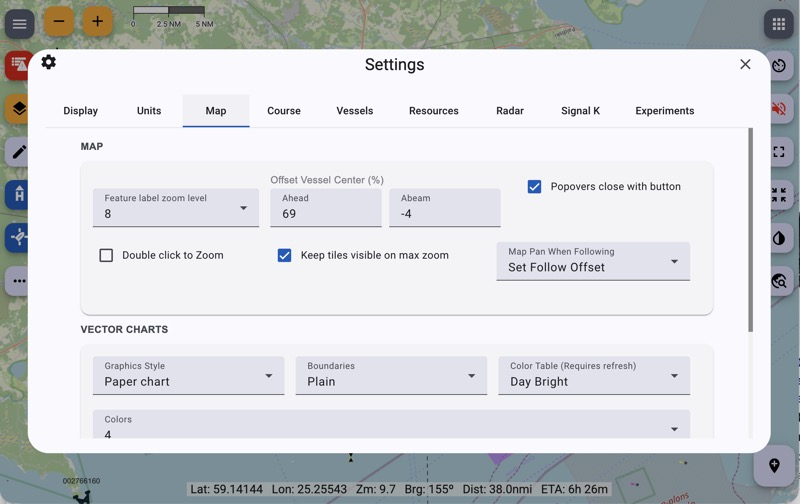
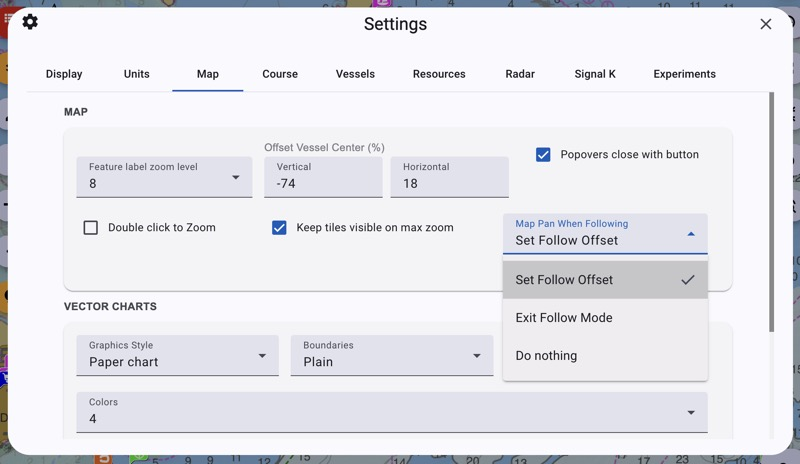
docs(map): update follow-vessel offset doc and help for screen-fixed frame (#638) (#640)
PR #638 changed the follow-vessel offset from vessel/course-frame to
screen-frame, renamed the settings fields Ahead/Abeam to
Vertical/Horizontal, and replaced the corner-scaling clamp with
releasing follow mode when the vessel is panned off screen. The
feature doc and the online help both described the old vessel-frame
model and field names, so both were now wrong.

- features/follow-vessel.md: rewrite the Offset Vessel Center section
  for the screen-frame model and new field names, add the off-screen
  pan release behaviour, drop the removed corner-scaling paragraph,
  refresh the Fig 2 screenshot.
- src/assets/help/index.html (#settings): correct the same facts in
  place.
- features/changelog.json: enhanced row for follow-vessel/#638.

diff --git a/src/assets/help/index.html b/src/assets/help/index.html
@@ -2409,23 +2409,26 @@
               while in "Follow Vessel" mode, so you can give yourself more
               visible chart in the direction you care about. Each value is a
               percentage of the distance from the center of the screen to its
-              edge, and both are measured relative to your course, so the view
-              keeps its bearings as the vessel turns.
+              edge, and both are measured relative to the screen, so the offset
+              holds its spot whether the vessel is underway, drifting, or at
+              rest.
               <ul>
                 <li>
-                  <b>Ahead</b>: moves the vessel back from the center to show
-                  more chart in front of it, so <b>50</b> places the vessel half
-                  way between the center and the trailing edge. A negative value
+                  <b>Vertical</b>: moves the vessel up or down the screen, so
+                  <b>50</b> places the vessel half way between the center and
+                  the bottom edge, showing more chart ahead. A negative value
                   looks behind the vessel instead.
                 </li>
                 <li>
-                  <b>Abeam</b>: moves the vessel to one side. A positive value
-                  shows more chart to starboard, a negative value more to port.
+                  <b>Horizontal</b>: moves the vessel left or right. A positive
+                  value shifts the map to the right, showing more chart to the
+                  right of the vessel; a negative value does the opposite.
                 </li>
               </ul>
               You can also set both by eye: with
               <b>Map Pan When Following</b> set to <b>Set Follow Offset</b>,
-              simply pan the chart to put the vessel where you want it.<br />
+              simply pan the chart to put the vessel where you want it. Panning
+              the vessel off screen instead turns follow mode off.<br />
             </li>
             <li>
               <b>Popover close with button</b>: Select this option in order to a

diff --git a/features/follow-vessel.md b/features/follow-vessel.md
@@ -4,7 +4,7 @@ title: Center & Follow Vessel
 category: Map
 ---
 
-![Fig 1. Following with an Ahead offset — the boat sits low on screen and the chart in front of it gets the room](follow-vessel-1.jpg)
+![Fig 1. Following with a positive Vertical offset — the boat sits low on screen and the chart in front of it gets the room](follow-vessel-1.jpg)
 
 Keep your boat on screen without touching the chart. Follow Vessel mode centers the
 vessel and holds it there as you move, so the chart scrolls under you instead of you
@@ -30,28 +30,30 @@ Sitting dead center spends half your screen on water you have already covered.
 matters gets the room. Two values, each a whole percentage up to ±90 of the distance from
 the middle of the screen to its edge:
 
-- **Ahead** — moves the vessel back so there is more chart in front of it. `50` puts the
-  boat halfway between the center and the trailing edge. A negative value looks behind the
-  boat instead.
-- **Abeam** — moves the vessel to one side. A positive value shows more to starboard, a
-  negative value more to port.
+- **Vertical** — moves the vessel up or down the screen. A positive value looks ahead,
+  putting more chart in front of the boat; `50` puts the boat halfway between the center
+  and the bottom edge. A negative value looks behind instead.
+- **Horizontal** — moves the vessel left or right. A positive value shifts the map to the
+  right, putting the boat toward the left of the screen with more chart visible to the
+  right; a negative value does the opposite.
 
-Both are measured against your **course** rather than the screen, so the offset turns with
-the boat. That is what keeps it honest in north-up: an offset fixed to the screen would
-show a vessel heading south the water it had already passed.
-
-Large values on both axes together would put the boat diagonally outside the corner of the
-screen, so Freeboard scales the pair back as a unit when that would happen — the vessel
-stays visible, and the offset you are shown is the offset that gets stored. A value on one
-axis alone is never affected.
+Both are measured against the **screen**, not your course — the offset holds the exact spot
+you set it to whether you're underway, drifting, or sitting still, instead of swinging
+around as your heading jitters at low speed or with no course at all. In heading-up mode
+this comes to the same thing as ahead/abeam, since "up the screen" already tracks your
+course; the difference only shows in north-up.
 
 ## Setting the offset by panning
 
 You don't have to work the numbers out at all. With **Map Pan When Following** set to
 **Set Follow Offset**, simply pan the chart until the boat sits where you want it.
-Freeboard works out the Ahead and Abeam values from where you dropped it and saves them,
-staying in follow mode the whole time — so the boat holds that spot from then on. For most
-people this is the only way they will ever set the offset.
+Freeboard works out the Vertical and Horizontal values from where you dropped it and saves
+them, staying in follow mode the whole time — so the boat holds that spot from then on. For
+most people this is the only way they will ever set the offset.
+
+Pan the boat clean off the screen and Freeboard takes it as "stop following" instead —
+follow mode turns off and the chart stays exactly where you left it, rather than snapping
+the boat back into view.
 
 ## Map Pan When Following
 
